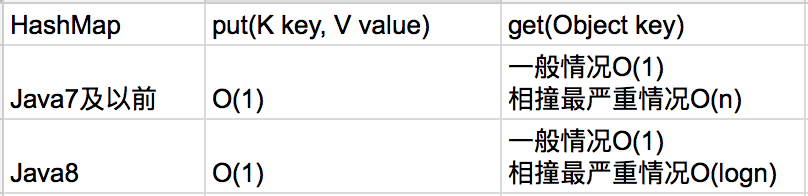
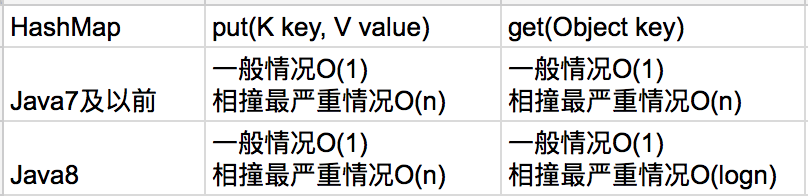
Hexo update!

diff --git a/2016/07/10/tij4-11/index.html b/2016/07/10/tij4-11/index.html
@@ -73,9 +73,8 @@ Array不是一般意义上的“容器”讲容器之前，请允许我先把Arr
 <meta property="og:image" content="www.ciaoshen.com/uploads/tij4-11/ll_al.png">
 <meta property="og:image" content="www.ciaoshen.com/uploads/tij4-11/linkedlist.jpg">
 <meta property="og:image" content="www.ciaoshen.com/uploads/tij4-11/hashMap.png">
-<meta property="og:image" content="www.ciaoshen.com/uploads/tij4-11/hash.png">
 <meta property="og:image" content="www.ciaoshen.com/uploads/tij4-11/hashMapComplexity.png">
-<meta property="og:updated_time" content="2016-07-12T23:28:17.000Z">
+<meta property="og:updated_time" content="2016-07-13T03:39:47.000Z">
 <meta name="twitter:card" content="summary">
 <meta name="twitter:title" content="Think in Java 读书笔记：第十一章 - 容器">
 <meta name="twitter:description" content="摘要容器，容器，容器我对容器感兴趣的一个重要原因是，我对java.util库的内部实现感兴趣。创造Java的一群人写的java代码，是学习java少有的靠谱的捷径。
@@ -415,13 +414,14 @@ Array不是一般意义上的“容器”讲容器之前，请允许我先把Arr
 </ul>
 <p><strong>put(K key, V value)</strong>方法的步骤如下，</p>
 <ul>
-<li>对key的hashCode()做hash，然后再计算index;</li>
-<li>直接根据hash值来访问Array的下标。如果没碰撞直接放到bucket里；</li>
-<li>如果碰撞了，以链表的形式存在buckets后；</li>
-<li>如果碰撞导致链表过长(大于等于TREEIFY_THRESHOLD)，就把链表转换成红黑树；</li>
+<li>对key的hashCode()做hash，然后再计算index;（都是简单的位操作，常数复杂度 O(1)）</li>
+<li>直接根据hash值来访问Array的下标。如果没碰撞直接放到bucket里；O(1)；</li>
+<li>如果碰撞了，以链表的形式存在buckets后；往后插的过程是要遍历链表每个节点的。所以碰撞严重的话，对HashMap的性能影响严重。</li>
+<li>如果碰撞导致链表过长(大于等于TREEIFY_THRESHOLD)，就把链表转换成红黑树；O(logn)；</li>
 <li>如果节点已经存在就替换old value(保证key的唯一性)</li>
 <li>如果bucket满了(超过load factor*current capacity)，就要resize。</li>
 </ul>
+<p>综上所述，Java 8开始改成红黑树以后，一般情况下，put(K key, V value)动作是常数复杂度O(1)。最坏情况碰撞严重，最多O(logn)。还是可以接受的。</p>
 <p><strong>get(Object key)</strong>方法的步骤如下，</p>
 <ul>
 <li>bucket里的第一个节点，直接命中，O(1)；</li>
@@ -429,10 +429,24 @@ Array不是一般意义上的“容器”讲容器之前，请允许我先把Arr
 <li>若为树，则在树中通过key.equals(k)查找，O(logn)；</li>
 <li>若为链表，则在链表中通过key.equals(k)查找，O(n)。</li>
 </ul>
+<p>综上所述，和插入put()方法一样，Java 8开始改成红黑树以后，一般情况下，搜索get(Object key)动作是常数复杂度O(1)。最坏情况碰撞严重，最多O(logn)。</p>
 <p>看下面的HashMap的源码，可以清楚地看到HashMap也是基于Array实现复杂度为O(1)的快速随机访问。<br><figure class="highlight java"><table><tr><td class="gutter"><pre><span class="line">1</span><br><span class="line">2</span><br><span class="line">3</span><br><span class="line">4</span><br><span class="line">5</span><br><span class="line">6</span><br><span class="line">7</span><br><span class="line">8</span><br><span class="line">9</span><br><span class="line">10</span><br><span class="line">11</span><br><span class="line">12</span><br><span class="line">13</span><br><span class="line">14</span><br><span class="line">15</span><br><span class="line">16</span><br><span class="line">17</span><br><span class="line">18</span><br><span class="line">19</span><br><span class="line">20</span><br><span class="line">21</span><br><span class="line">22</span><br></pre></td><td class="code"><pre><span class="line"><span class="function"><span class="keyword">public</span> <span class="title">HashMap</span><span class="params">(<span class="keyword">int</span> initialCapacity, <span class="keyword">float</span> loadFactor)</span> </span>&#123;</span><br><span class="line">    <span class="keyword">if</span> (initialCapacity &lt; <span class="number">0</span>)</span><br><span class="line">        <span class="keyword">throw</span> <span class="keyword">new</span> IllegalArgumentException(<span class="string">"Illegal initial capacity: "</span> +</span><br><span class="line">                                           initialCapacity);</span><br><span class="line">    <span class="keyword">if</span> (initialCapacity &gt; MAXIMUM_CAPACITY)</span><br><span class="line">        initialCapacity = MAXIMUM_CAPACITY;</span><br><span class="line">    <span class="keyword">if</span> (loadFactor &lt;= <span class="number">0</span> || Float.isNaN(loadFactor))</span><br><span class="line">        <span class="keyword">throw</span> <span class="keyword">new</span> IllegalArgumentException(<span class="string">"Illegal load factor: "</span> +</span><br><span class="line">                                           loadFactor);</span><br><span class="line"></span><br><span class="line">    <span class="comment">// Find a power of 2 &gt;= initialCapacity</span></span><br><span class="line">    <span class="keyword">int</span> capacity = <span class="number">1</span>;</span><br><span class="line">    <span class="keyword">while</span> (capacity &lt; initialCapacity)</span><br><span class="line">        capacity &lt;&lt;= <span class="number">1</span>;</span><br><span class="line"></span><br><span class="line">    <span class="keyword">this</span>.loadFactor = loadFactor;</span><br><span class="line">    threshold = (<span class="keyword">int</span>)Math.min(capacity * loadFactor, MAXIMUM_CAPACITY + <span class="number">1</span>);</span><br><span class="line">    table = <span class="keyword">new</span> Entry[capacity];	<span class="comment">//这一行，证明HashMap也是基于Array实现复杂度为O(1)的快速随机访问</span></span><br><span class="line">    useAltHashing = sun.misc.VM.isBooted() &amp;&amp;</span><br><span class="line">            (capacity &gt;= Holder.ALTERNATIVE_HASHING_THRESHOLD);</span><br><span class="line">    init();</span><br><span class="line">&#125;</span><br></pre></td></tr></table></figure></p>
-<p>下面这个是HashMap的hash算法。<br><figure class="highlight java"><table><tr><td class="gutter"><pre><span class="line">1</span><br><span class="line">2</span><br><span class="line">3</span><br><span class="line">4</span><br></pre></td><td class="code"><pre><span class="line"><span class="function"><span class="keyword">static</span> <span class="keyword">final</span> <span class="keyword">int</span> <span class="title">hash</span><span class="params">(Object key)</span> </span>&#123;</span><br><span class="line">    <span class="keyword">int</span> h;</span><br><span class="line">    <span class="keyword">return</span> (key == <span class="keyword">null</span>) ? <span class="number">0</span> : (h = key.hashCode()) ^ (h &gt;&gt;&gt; <span class="number">16</span>);</span><br><span class="line">&#125;</span><br></pre></td></tr></table></figure></p>
-<p>如下图，HashMap的Hash算法具体过程如下，<br><img src="/uploads/tij4-11/hash.png" alt="hash"><br>先对hashCode进行hash操作，然后再通过hash值进一步计算下标。计算下标的时候，高16bit不变，低16bit和高16bit做了一个异或。</p>
-<p>对于HashMap具体的工作原理，会在以后的章节深入研究。这里有一篇不错的文章<a href="http://yikun.github.io/2015/04/01/Java-HashMap工作原理及实现/" target="_blank" rel="external"><strong>《Java-HashMap工作原理及实现》</strong></a>。下图为HashMap的put(K key, V value)方法和get(Object key)方法的具体复杂度：<br><img src="/uploads/tij4-11/hashMapComplexity.png" alt="hashMapComplexity"></p>
+<p>下面这个是HashMap的hash算法。<br><figure class="highlight java"><table><tr><td class="gutter"><pre><span class="line">1</span><br><span class="line">2</span><br><span class="line">3</span><br><span class="line">4</span><br><span class="line">5</span><br><span class="line">6</span><br><span class="line">7</span><br><span class="line">8</span><br><span class="line">9</span><br><span class="line">10</span><br><span class="line">11</span><br><span class="line">12</span><br><span class="line">13</span><br><span class="line">14</span><br><span class="line">15</span><br><span class="line">16</span><br><span class="line">17</span><br><span class="line">18</span><br></pre></td><td class="code"><pre><span class="line"><span class="function"><span class="keyword">final</span> <span class="keyword">int</span> <span class="title">hash</span><span class="params">(Object k)</span> </span>&#123;</span><br><span class="line">    <span class="keyword">int</span> h = <span class="number">0</span>;</span><br><span class="line">    <span class="keyword">if</span> (useAltHashing) &#123;</span><br><span class="line">        <span class="keyword">if</span> (k <span class="keyword">instanceof</span> String) &#123;</span><br><span class="line">            <span class="keyword">return</span> sun.misc.Hashing.stringHash32((String) k);</span><br><span class="line">        &#125;</span><br><span class="line">        h = hashSeed;</span><br><span class="line">    &#125;</span><br><span class="line"></span><br><span class="line">    h ^= k.hashCode();	<span class="comment">//k的哈希值和哈希种子做异或运算（哈希种子为零，就相当于保留哈希值）</span></span><br><span class="line">			<span class="comment">//异或：相同则结果为0，不同则结果为1</span></span><br><span class="line"></span><br><span class="line">    <span class="comment">// This function ensures that hashCodes that differ only by</span></span><br><span class="line">    <span class="comment">// constant multiples at each bit position have a bounded</span></span><br><span class="line">    <span class="comment">// number of collisions (approximately 8 at default load factor).</span></span><br><span class="line">    h ^= (h &gt;&gt;&gt; <span class="number">20</span>) ^ (h &gt;&gt;&gt; <span class="number">12</span>);	<span class="comment">//h和他自己的右位移20位做异或，再和它的右位移12为做异或。</span></span><br><span class="line">    <span class="keyword">return</span> h ^ (h &gt;&gt;&gt; <span class="number">7</span>) ^ (h &gt;&gt;&gt; <span class="number">4</span>);	<span class="comment">//h再和他自己的右位移7位做异或，再和它的右位移4为做异或。</span></span><br><span class="line">&#125;</span><br></pre></td></tr></table></figure></p>
+<p>HashMap的Hash算法具体过程如下，</p>
+<ul>
+<li>前面一个if先不管它。</li>
+<li>通过hashCode()方法获取key的哈希值，和哈希种子做异或运算（哈希种子为零，就相当于保留哈希值）（hashCode()函数先当他黑箱）</li>
+<li>h和他自己的右位移20位做异或，再和它的右位移12为做异或。</li>
+<li>h再和他自己的右位移7位做异或，再和它的右位移4为做异或。</li>
+</ul>
+<p>我还不太明白这算法背后的数学意义，但一点是肯定的，从java的hash()算法因为只是简单的位操作，复杂度是常数O(1)。</p>
+<p>我另外一个好奇的事是这个Java每个对象自带的<strong>Object.hashCode()</strong>方法，到底是怎么返回哈希值的。毕竟HashMap的代码也都只是在系统给的哈希值的基础上做文章。StackOverFlow该问题的最高票答案<a href="http://stackoverflow.com/questions/2427631/how-is-hashcode-calculated-in-java" target="_blank" rel="external"><strong>《How is hashCode() calculated in Java?》</strong></a>是这样说的：</p>
+<blockquote>
+<p>hashCode()是每个对象自带的方法。但几乎每个类都会重写这个方法。所以hashCode()的哈希值计算方法每种数据类型都是不同的。</p>
+</blockquote>
+<p>下面举两个最常用的例子，int整型的哈希值等于它本身。<br><figure class="highlight java"><table><tr><td class="gutter"><pre><span class="line">1</span><br><span class="line">2</span><br><span class="line">3</span><br></pre></td><td class="code"><pre><span class="line"><span class="function"><span class="keyword">public</span> <span class="keyword">int</span> <span class="title">hashCode</span><span class="params">()</span> </span>&#123;</span><br><span class="line">    <span class="keyword">return</span> value;</span><br><span class="line">&#125;</span><br></pre></td></tr></table></figure></p>
+<p>String的哈希值算法稍微复杂一点，基本就是根据它自身的长度迭代，每次都乘以31再加上它的偏移值。<br><figure class="highlight java"><table><tr><td class="gutter"><pre><span class="line">1</span><br><span class="line">2</span><br><span class="line">3</span><br><span class="line">4</span><br><span class="line">5</span><br><span class="line">6</span><br><span class="line">7</span><br><span class="line">8</span><br><span class="line">9</span><br><span class="line">10</span><br><span class="line">11</span><br><span class="line">12</span><br><span class="line">13</span><br><span class="line">14</span><br></pre></td><td class="code"><pre><span class="line"><span class="function"><span class="keyword">public</span> <span class="keyword">int</span> <span class="title">hashCode</span><span class="params">()</span> </span>&#123;</span><br><span class="line">    <span class="keyword">int</span> h = hash;</span><br><span class="line">    <span class="keyword">if</span> (h == <span class="number">0</span>) &#123;</span><br><span class="line">        <span class="keyword">int</span> off = offset;</span><br><span class="line">        <span class="keyword">char</span> val[] = value;</span><br><span class="line">        <span class="keyword">int</span> len = count;</span><br><span class="line">  <span class="comment">//关键算法在这里</span></span><br><span class="line">        <span class="keyword">for</span> (<span class="keyword">int</span> i = <span class="number">0</span>; i &lt; len; i++) &#123;</span><br><span class="line">            h = <span class="number">31</span>*h + val[off++];</span><br><span class="line">        &#125;</span><br><span class="line">        hash = h;</span><br><span class="line">    &#125;</span><br><span class="line">    <span class="keyword">return</span> h;</span><br><span class="line">&#125;</span><br></pre></td></tr></table></figure></p>
+<p>对于HashMap具体的工作原理，会在以后的章节深入研究。下图总结一下HashMap的put(K key, V value)方法和get(Object key)方法的具体复杂度：<br><img src="/uploads/tij4-11/hashMapComplexity.png" alt="hashMapComplexity"></p>
 <p>最后，如果我们希望Map中元素以某种特殊的比较顺序排列，可以用<strong>TreeMap</strong>。如果希望元素保持插入时的顺序，可以用<strong>LinkedHashMap</strong>。但效率方面就要打一点折扣了。</p>
 <h5 id="关于Set"><a href="#关于Set" class="headerlink" title="关于Set"></a>关于Set</h5><p>前文说了Set是为了保持集合中元素的唯一性。和Map一样，同样有三种不同的实现：</p>
 <ul>

diff --git a/css/main.css b/css/main.css
@@ -1523,7 +1523,7 @@ pre .javascript .function {
   width: 4px;
   height: 4px;
   border-radius: 50%;
-  background: #ffadff;
+  background: #c8b5ff;
 }
 .sidebar-nav {
   margin: 0 0 20px;
